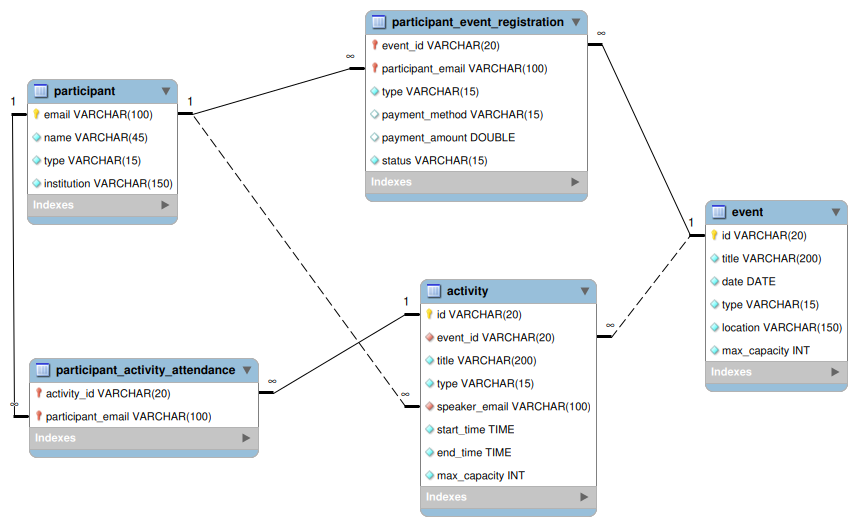
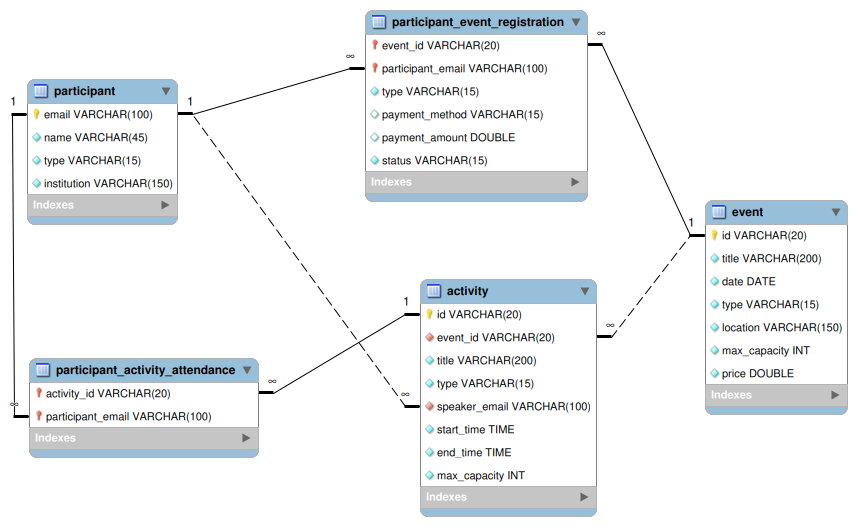
Validator-class

Changed region(s): [[0.8191, 0.6692, 1.0, 0.7909]]

diff --git a/HyruleEvents/src/main/java/com/joca/database/event/EventDB.java b/HyruleEvents/src/main/java/com/joca/database/event/EventDB.java
@@ -17,8 +17,8 @@ public class EventDB extends DBConnection implements OneKey<Event> {
 
     @Override
     public void insert(Event event) throws SQLException, NotRowsAffectedException {
-        String query = "INSERT INTO event (id, title, date, type, location, max_capacity) VALUES" +
-                "(?,?,?,?,?,?);";
+        String query = "INSERT INTO event (id, title, date, type, location, max_capacity, price) VALUES" +
+                "(?,?,?,?,?,?,?);";
         try (Connection connection = connect();
              PreparedStatement st = connection.prepareStatement(query)) {
             st.setString(1, event.getId());
@@ -27,10 +27,11 @@ public class EventDB extends DBConnection implements OneKey<Event> {
             st.setString(4, event.getType().name());
             st.setString(5, event.getLocation());
             st.setInt(6, event.getMaxCapacity());
+            st.setDouble(7, event.getPrice());
 
             int result = st.executeUpdate();
             if (result == 0) {
-                throw new NotRowsAffectedException("No se pudo registrar el evento con id: " + event.getId());
+                throw new NotRowsAffectedException("No se pudo registrar el evento con código: " + event.getId());
             }
         }
     }
@@ -52,6 +53,7 @@ public class EventDB extends DBConnection implements OneKey<Event> {
                 event.setType(EventTypeEnum.valueOf(result.getString("type")));
                 event.setDate(result.getDate("date").toLocalDate());
                 event.setMaxCapacity(result.getInt("max_capacity"));
+                event.setPrice(result.getDouble("price"));
                 events.add(event);
             }
         }
@@ -82,6 +84,7 @@ public class EventDB extends DBConnection implements OneKey<Event> {
                     event.setType(EventTypeEnum.valueOf(result.getString("type")));
                     event.setDate(result.getDate("date").toLocalDate());
                     event.setMaxCapacity(result.getInt("max_capacity"));
+                    event.setPrice(result.getDouble("price"));
                     events.add(event);
                 }
             }
@@ -108,11 +111,12 @@ public class EventDB extends DBConnection implements OneKey<Event> {
                     event.setType(EventTypeEnum.valueOf(result.getString("type")));
                     event.setDate(result.getDate("date").toLocalDate());
                     event.setMaxCapacity(result.getInt("max_capacity"));
+                    event.setPrice(result.getDouble("price"));
                     return event;
                 }
             }
         }
-        throw new NotFoundException("No se encontró el evento con el id: " + primaryKey);
+        throw new NotFoundException("No se encontró el evento con el código: " + primaryKey);
     }
 
     @Override
@@ -128,10 +132,11 @@ public class EventDB extends DBConnection implements OneKey<Event> {
             st.setString(5, event.getLocation());
             st.setInt(6, event.getMaxCapacity());
             st.setString(7, primaryKey);
+            st.setDouble(8, event.getPrice());
 
             int result = st.executeUpdate();
             if (result == 0) {
-                throw new NotRowsAffectedException("No se pudo actualizar el evento con id: " + primaryKey);
+                throw new NotRowsAffectedException("No se pudo actualizar el evento con código: " + primaryKey);
             }
         }
     }
@@ -145,7 +150,7 @@ public class EventDB extends DBConnection implements OneKey<Event> {
 
             int result = st.executeUpdate();
             if (result == 0) {
-                throw new NotRowsAffectedException("No se pudo eliminar el evento con id: " + primaryKey);
+                throw new NotRowsAffectedException("No se pudo eliminar el evento con código: " + primaryKey);
             }
         }
     }

diff --git a/HyruleEvents/src/main/java/com/joca/model/event/Event.java b/HyruleEvents/src/main/java/com/joca/model/event/Event.java
@@ -1,25 +1,46 @@
 package com.joca.model.event;
 
+import com.joca.model.DBEntity;
+import com.joca.model.exceptions.InvalidRequisitesException;
+
 import java.time.LocalDate;
 
-public class Event {
+public class Event extends DBEntity {
+
+    public static final int MAX_LENGTH_ID = 20;
+    public static final int MAX_LENGTH_TITLE = 200;
+    public static final int MAX_LENGTH_LOCATION = 150;
+
     private String id;
     private String title;
     private String location;
     private EventTypeEnum type;
     private LocalDate date;
     private int maxCapacity;
+    private double price;
 
-    public Event(String id, String title, String location, EventTypeEnum type, LocalDate date, int maxCapacity) {
+    public Event(String id, String title, String location, EventTypeEnum type, LocalDate date, int maxCapacity, double price) {
         this.id = id;
         this.title = title;
         this.location = location;
         this.type = type;
         this.date = date;
         this.maxCapacity = maxCapacity;
+        this.price = price;
     }
 
     public Event() {
+    }
+
+    @Override
+    public void validate() throws InvalidRequisitesException {
+        validateString(id, MAX_LENGTH_ID, "un código para el evento");
+        validateString(title, MAX_LENGTH_TITLE, "un titulo para el evento");
+        validateString(location, MAX_LENGTH_LOCATION, "una ubicación para el evento");
+        validateNull(type, "un tipo de evento");
+        validateNull(date, "una fecha para el evento");
+        validateInt(maxCapacity, "una cantidad máxima para el evento", false);
+        validateDouble(price, "un precio para el evento", true);
     }
 
     public String getId() {
@@ -69,4 +90,13 @@ public class Event {
     public void setType(EventTypeEnum type) {
         this.type = type;
     }
+
+    public double getPrice() {
+        return price;
+    }
+
+    public void setPrice(double price) {
+        this.price = price;
+    }
+
 }

diff --git a/HyruleEvents/src/main/java/com/joca/services/EventService.java b/HyruleEvents/src/main/java/com/joca/services/EventService.java
@@ -3,9 +3,11 @@ package com.joca.services;
 import com.joca.database.event.EventDB;
 import com.joca.model.event.Event;
 import com.joca.model.exceptions.DuplicatedKeyException;
+import com.joca.model.exceptions.InvalidRequisitesException;
 import com.joca.model.exceptions.NotFoundException;
 import com.joca.model.exceptions.NotRowsAffectedException;
 import com.joca.model.filter.Filter;
+import com.joca.model.registration.Registration;
 
 import java.sql.SQLException;
 import java.util.List;
@@ -18,7 +20,8 @@ public class EventService {
         this.eventDB = eventDB;
     }
 
-    public void createEvent(Event event) throws SQLException, DuplicatedKeyException, NotRowsAffectedException {
+    public void createEvent(Event event) throws SQLException, DuplicatedKeyException, NotRowsAffectedException, InvalidRequisitesException {
+        event.validate();
         if (isKeyInUse(event.getId())) {
             throw new DuplicatedKeyException("Error al crear el evento, ya existe un evento con el id: " + event.getId());
         }
@@ -33,8 +36,9 @@ public class EventService {
         return eventDB.findAll();
     }
 
-    public void updateEvent(Event event, String originalEventID) throws SQLException, DuplicatedKeyException, NotRowsAffectedException {
-        if (isKeyInUse(event.getId())) {
+    public void updateEvent(Event event, String originalEventID) throws SQLException, DuplicatedKeyException, NotRowsAffectedException, InvalidRequisitesException {
+        event.validate();
+        if (isKeyInUse(event.getId()) && !event.getId().equals(originalEventID)) {
             throw new DuplicatedKeyException("Error al actualizar el evento, ya existe un evento con el id: " + event.getId());
         }
 

diff --git a/HyruleEvents/src/main/java/com/joca/model/DBEntity.java b/HyruleEvents/src/main/java/com/joca/model/DBEntity.java
@@ -1,0 +1,38 @@
+package com.joca.model;
+
+import com.joca.model.exceptions.InvalidRequisitesException;
+
+import java.time.LocalDate;
+
+public abstract class DBEntity {
+
+    public abstract void validate() throws InvalidRequisitesException;
+
+    protected void validateString(String value, int maxLength, String valueName) throws InvalidRequisitesException {
+        if (value == null || value.isBlank() || value.length() > maxLength) {
+            throw new InvalidRequisitesException("Se debe especificar " + valueName + " menor a " + maxLength + " caracteres.");
+        }
+    }
+
+    protected void validateDouble(double value, String valueName, boolean canBeZero) throws InvalidRequisitesException {
+        if (canBeZero) {
+            if (value < 0 ) {
+                throw new InvalidRequisitesException("Se debe especificar " + valueName + " mayor a 0.");
+            }
+        } else {
+            if (value <= 0 ) {
+                throw new InvalidRequisitesException("Se debe especificar " + valueName + " mayor o igual a 0.");
+            }
+        }
+    }
+
+    protected void validateInt(int value, String valueName, boolean canBeZero) throws InvalidRequisitesException {
+        validateDouble((double) value, valueName, canBeZero);
+    }
+
+    protected void validateNull(Object object, String valueName) throws InvalidRequisitesException{
+        if (object == null) {
+            throw new InvalidRequisitesException("Se debe ingresar " + valueName + ".");
+        }
+    }
+}

diff --git a/HyruleEvents/src/main/java/com/joca/Main.java b/HyruleEvents/src/main/java/com/joca/Main.java
@@ -1,6 +1,35 @@
 package com.joca;
 
+import com.joca.database.event.EventDB;
+import com.joca.model.event.Event;
+import com.joca.model.event.EventTypeEnum;
+import com.joca.model.exceptions.DuplicatedKeyException;
+import com.joca.model.exceptions.NotRowsAffectedException;
+import com.joca.services.EventService;
+
+import java.sql.SQLException;
+import java.time.LocalDate;
+
 //TIP To <b>Run</b> code, press <shortcut actionId="Run"/> or
 // click the <icon src="AllIcons.Actions.Execute"/> icon in the gutter.
 public class Main {
+    public static void main(String[] args) {
+        EventService eventService = new EventService(new EventDB());
+        Event event = new Event();
+        event.setId("EVENT_2");
+        event.setType(EventTypeEnum.CHARLA);
+        event.setDate(LocalDate.now());
+        event.setTitle("TITULO DEL EVENTO");
+        event.setLocation("Casita");
+        event.setMaxCapacity(40);
+        try {
+            eventService.updateEvent(event, "EVENT_2");
+        } catch (SQLException e) {
+            throw new RuntimeException(e);
+        } catch (DuplicatedKeyException e) {
+            throw new RuntimeException(e);
+        } catch (NotRowsAffectedException e) {
+            throw new RuntimeException(e);
+        }
+    }
 }
